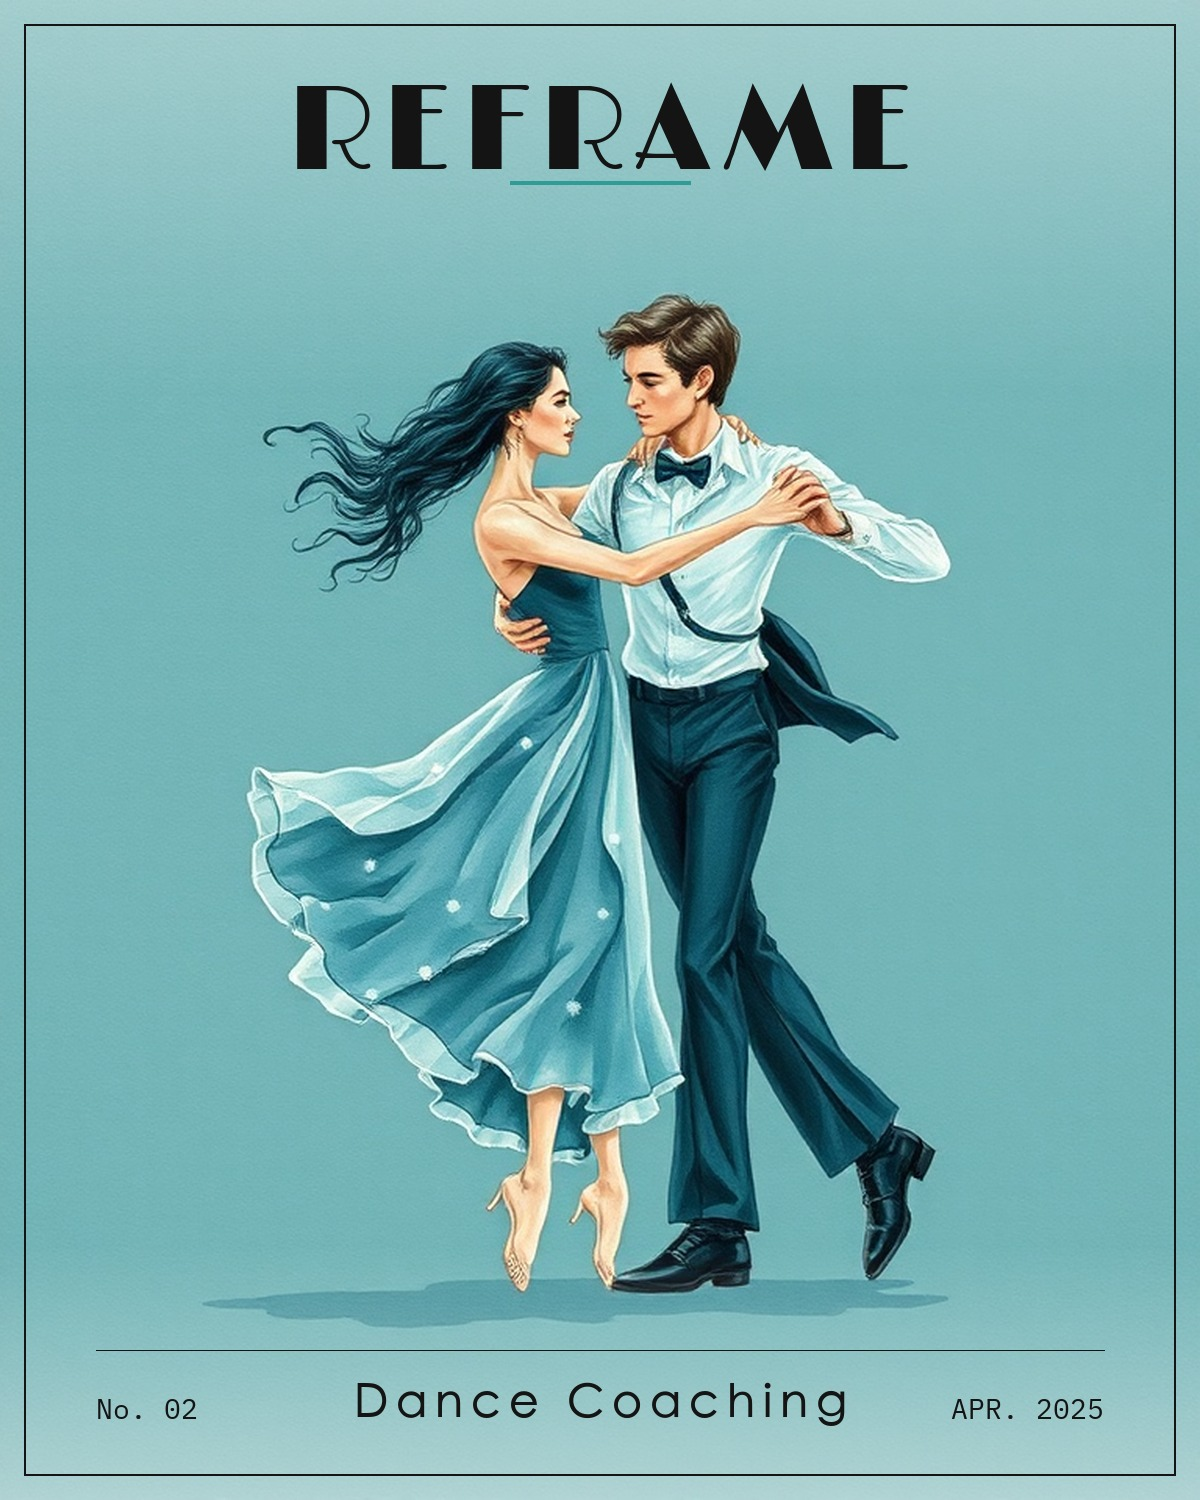
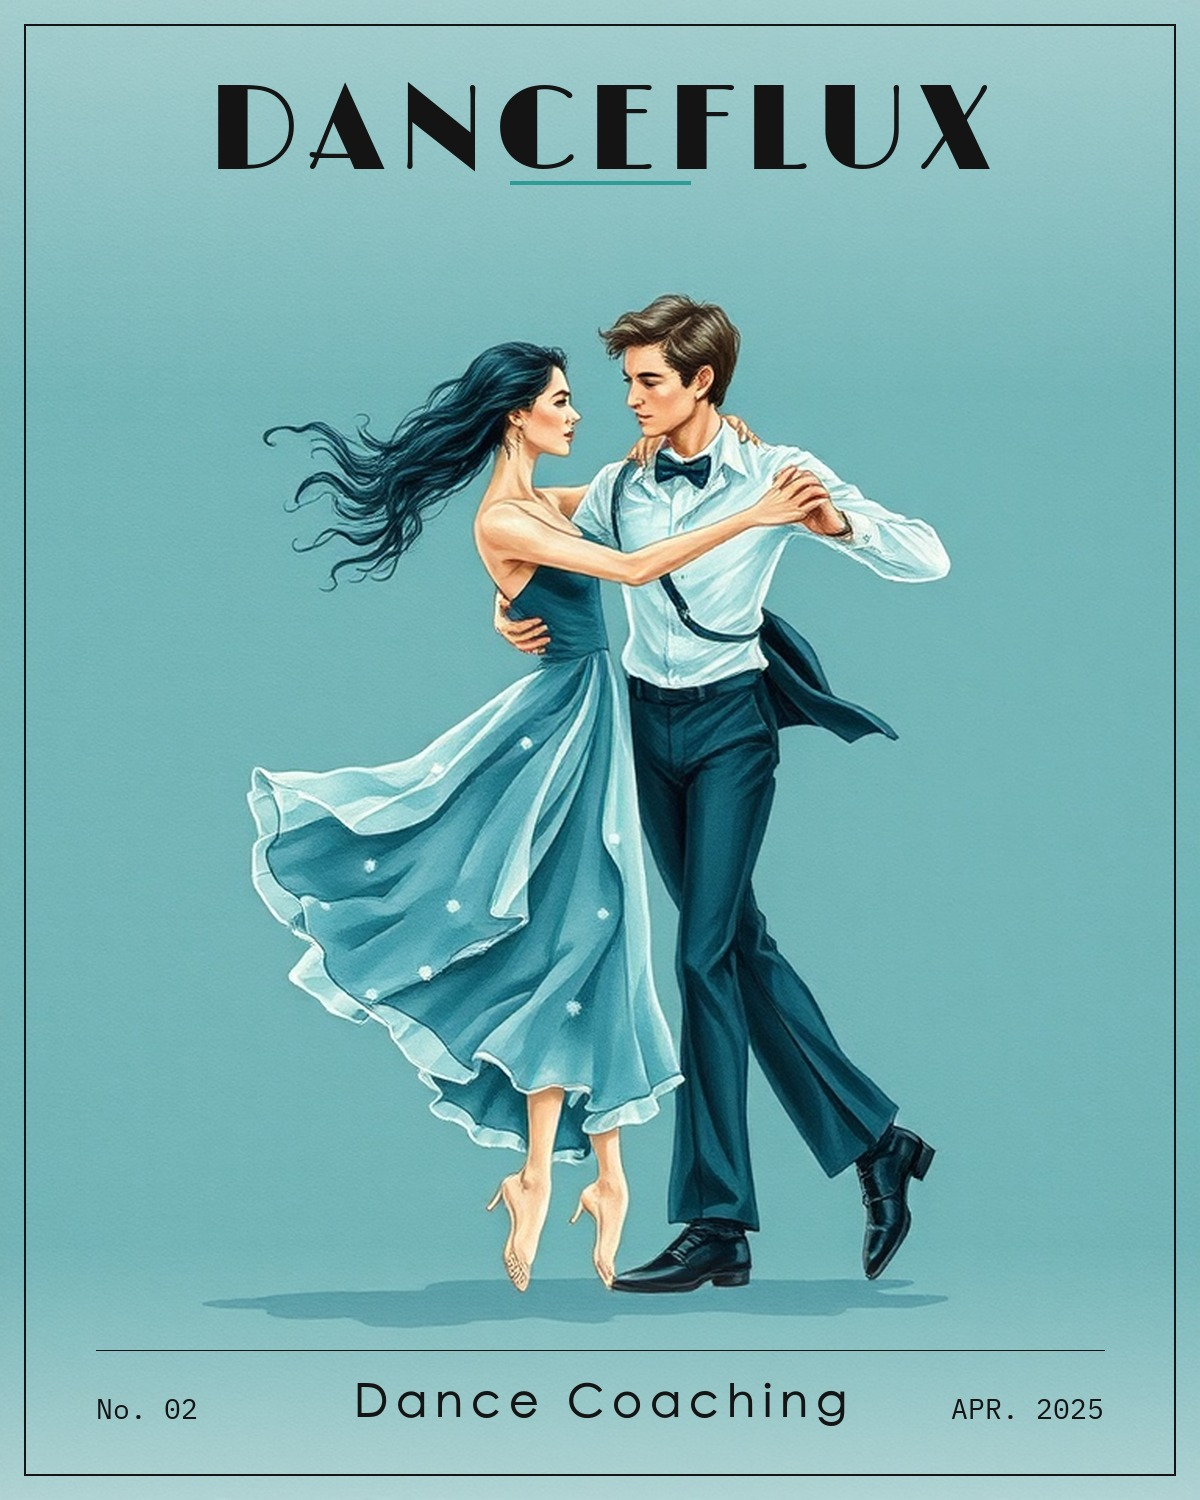
rebrand: Reframe → Danceflux across the portfolio
Repo was renamed to danceflux, so update every surface that still said
Reframe: the Archive cover masthead (recomposited from the same raw art,
pixel-identical apart from the title), covers.json, the PROJECTS and
footer entries, the More Me note, and the README.

Claude-Session: https://claude.ai/code/session_0117nKPYsQusBgroacKJF3eb

Changed region(s): [[0.1542, 0.0307, 0.8325, 0.1227]]

diff --git a/constants/index.ts b/constants/index.ts
@@ -187,7 +187,7 @@ export const PROJECTS = [
     link: "https://github.com/XinyunZhang5/whisper-helper",
   },
   {
-    title: "Reframe",
+    title: "Danceflux",
     description:
       "Compare your dance take against a reference video and get plain-language coaching tips on exactly what to fix. On-device pose estimation, audio alignment, and a phrase-bank coaching engine that degrades gracefully to an LLM fallback. Built with Swift and Vision.",
     image: "/projects/danceflux.png",
@@ -219,7 +219,7 @@ export const FOOTER_DATA = [
         link: "https://github.com/XinyunZhang5/whisper-helper",
       },
       {
-        name: "Reframe",
+        name: "Danceflux",
         icon: RxGithubLogo,
         link: "https://github.com/XinyunZhang5/danceflux",
       },

diff --git a/components/main/more-me.tsx b/components/main/more-me.tsx
@@ -25,7 +25,7 @@ const VIGNETTES: Vignette[] = [
   {
     img: "/more-me/dance.png",
     title: "Dance",
-    body: "The reason Reframe exists. I wanted a coach for the beats I kept getting wrong.",
+    body: "The reason Danceflux exists. I wanted a coach for the beats I kept getting wrong.",
     rotate: 2.5,
     offset: "md:-mt-4",
     href: "https://drive.google.com/file/d/1MJ5vkRHWPYPwbz6Wkj5ANnRy-c-MrGqu/view",

diff --git a/README.md b/README.md
@@ -5,7 +5,7 @@
 <p align="center">
   <img src="public/covers/Chatcurso.jpg" height="150" alt="Chatcurso" />
   <img src="public/covers/nebular-design.jpg" height="150" alt="Nebular" />
-  <img src="public/covers/danceflux.jpg" height="150" alt="Reframe" />
+  <img src="public/covers/danceflux.jpg" height="150" alt="Danceflux" />
   <img src="public/covers/chatslide.jpg" height="150" alt="ChatSlide" />
   <img src="public/covers/whisper-helper.jpg" height="150" alt="Whisper Helper" />
   <img src="public/covers/game-social.jpg" height="150" alt="Game Social" />
@@ -37,7 +37,7 @@ my own machine) — no stock art, no external image API.
 | --- | --- | --- |
 | I | [Chatcurso](https://github.com/XinyunZhang5/Chatcurso) | A Chrome extension that quietly files every ChatGPT prompt into a searchable side panel. Fully local. |
 | II | [Nebular](https://github.com/XinyunZhang5/nebular-design) | Turn a photo of a building into buildable LEGO with step-by-step instructions. |
-| III | [Reframe](https://github.com/XinyunZhang5/danceflux) | Compare your dance take against a reference and get plain-language coaching. On-device pose estimation. |
+| III | [Danceflux](https://github.com/XinyunZhang5/danceflux) | Compare your dance take against a reference and get plain-language coaching. On-device pose estimation. |
 | IV | [ChatSlide](https://chatslide.ai) | A RAG pipeline at ChatSlide.ai — structure-aware chunking lifted top-3 retrieval 62% → 81%. |
 | V | [Whisper Helper](https://github.com/XinyunZhang5/whisper-helper) | A free, fully offline voice-input companion for macOS, powered by Whisper.cpp. |
 | VI | Game Social | Backend for a gaming social platform — fanout-on-write feeds and sub-200ms WebSocket chat. |
